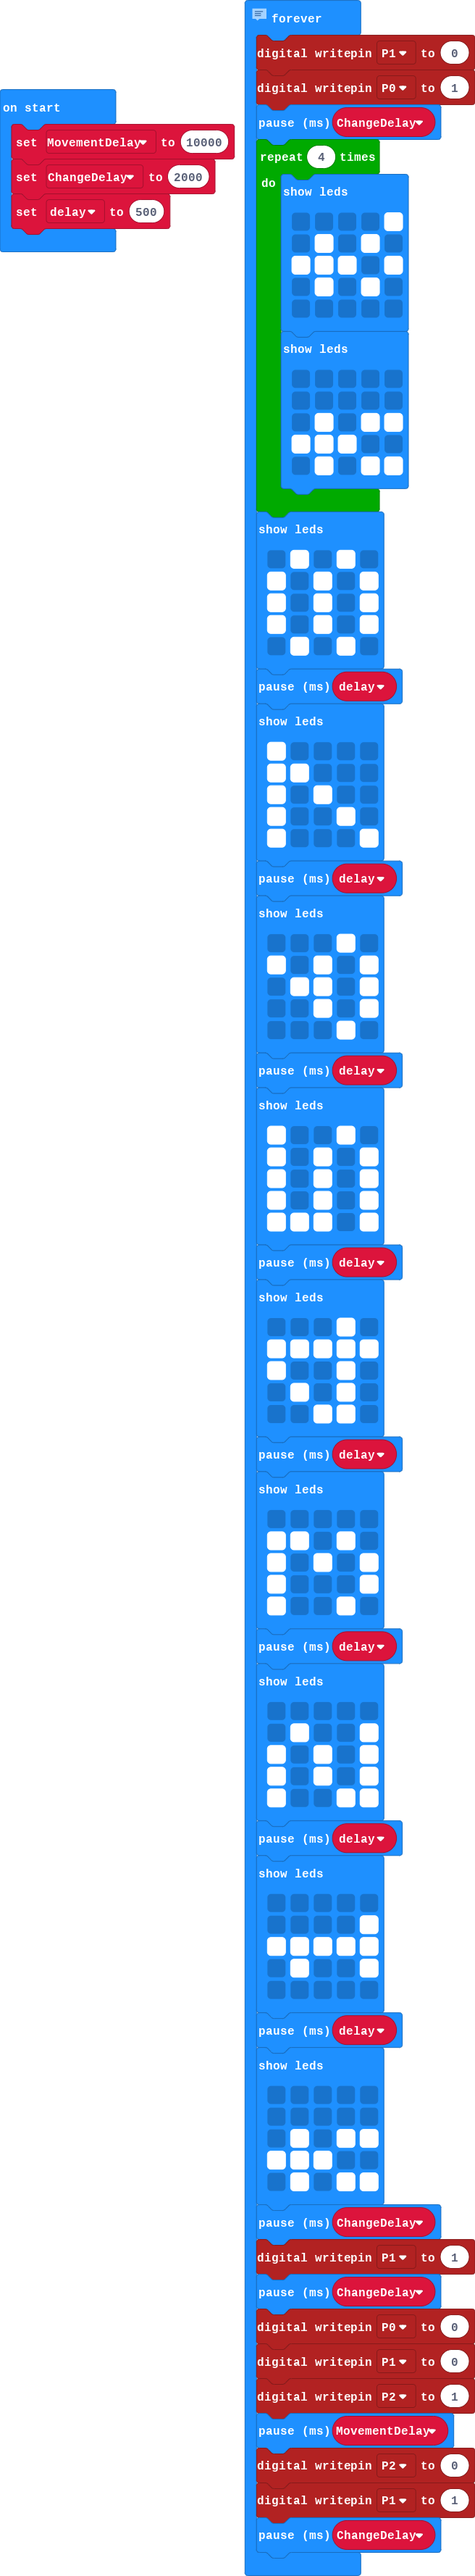
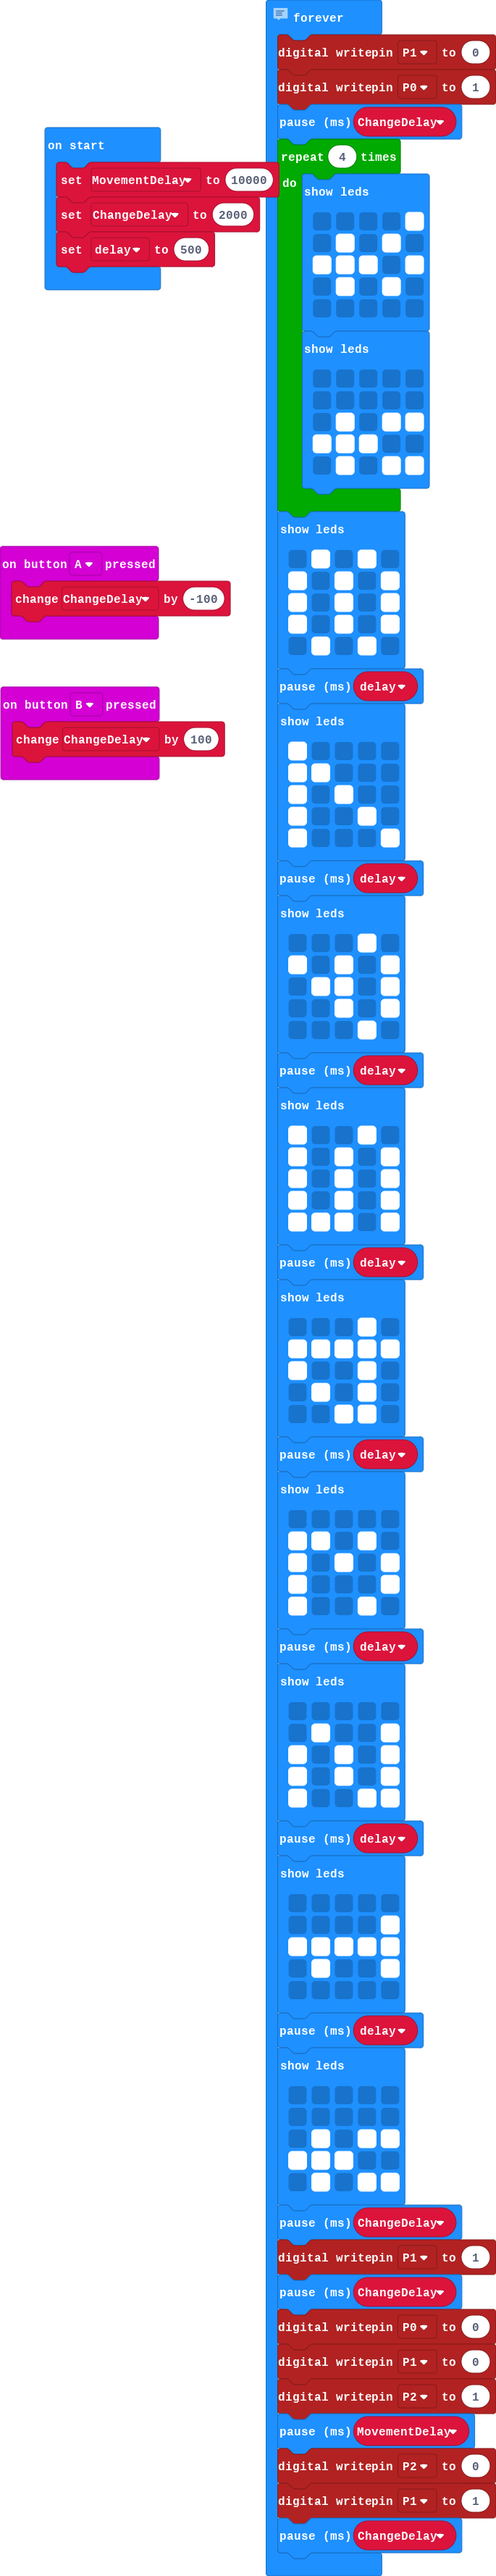
Update main.blocks, main.ts

Changed region(s): [[0.0, 0.0, 0.9756, 1.0]]

diff --git a/main.ts b/main.ts
@@ -1,3 +1,9 @@
+input.onButtonPressed(Button.B, function () {
+    ChangeDelay += 100
+})
+input.onButtonPressed(Button.A, function () {
+    ChangeDelay += -100
+})
 let MovementDelay = 10000
 let ChangeDelay = 2000
 let delay = 500
